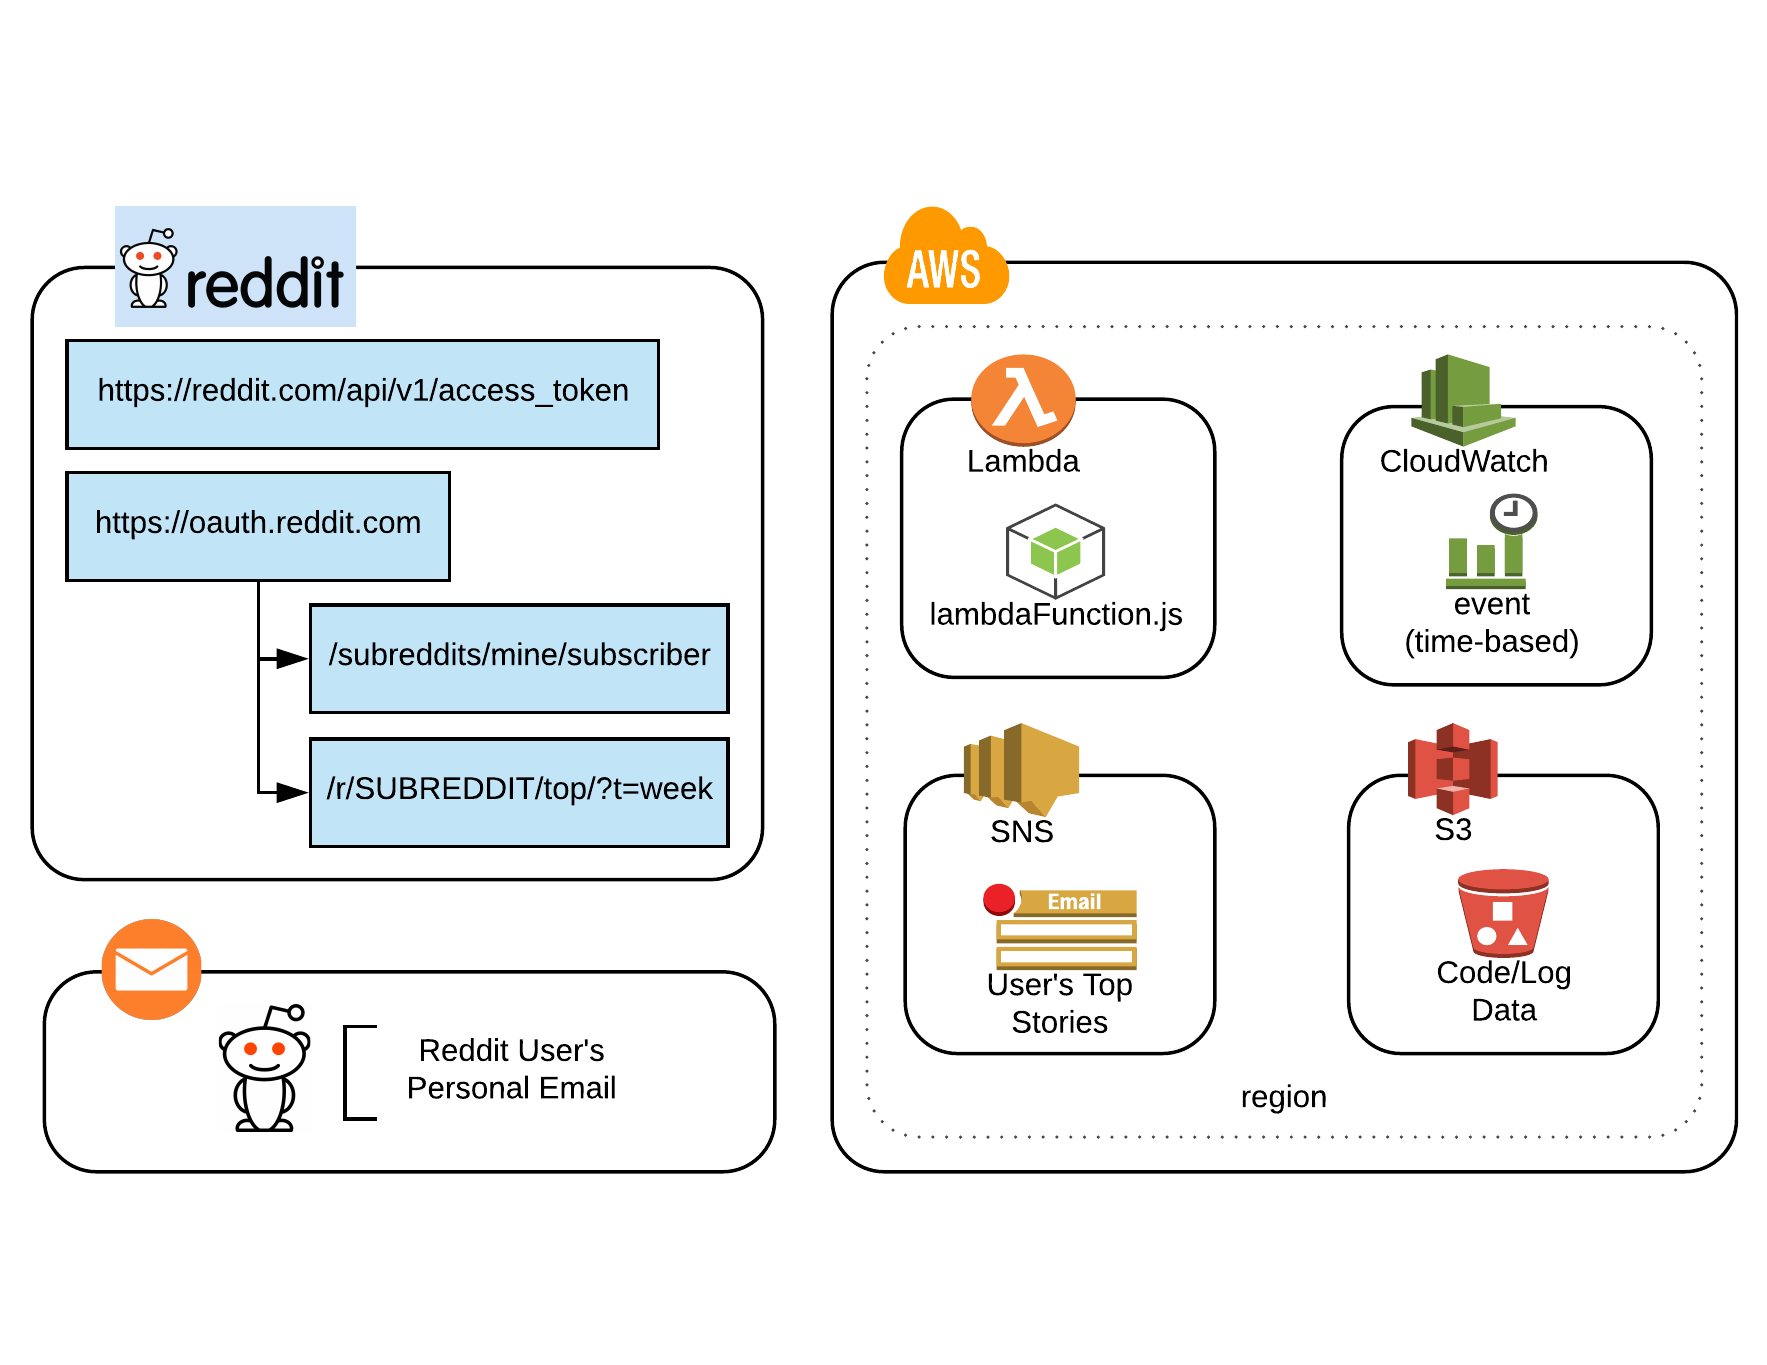
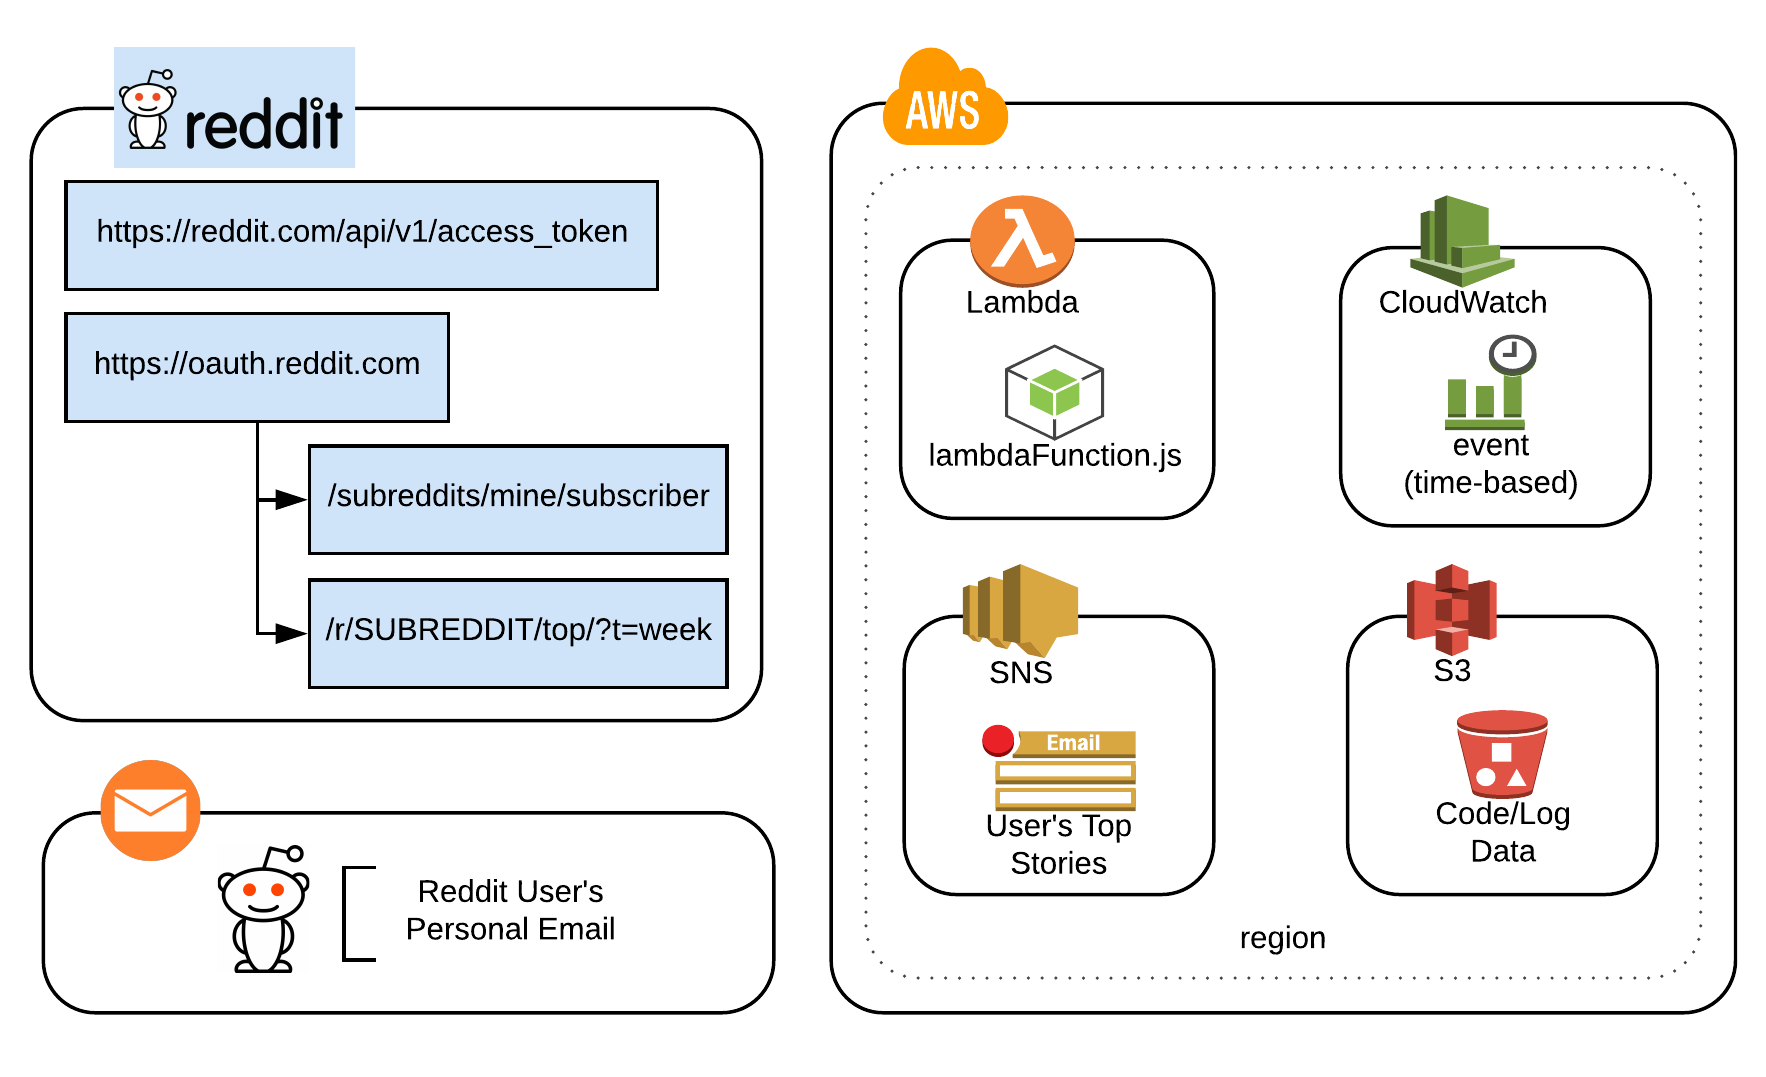
Add sequence flow diagram.  Adjust architecture diagram size and color.

diff --git a/README.md b/README.md
@@ -1,13 +1,24 @@
 ### Architecture
 ![Architecture v01](images/architecture_v01.png?raw=true  "Architecture v01")
 
+### Sequence Flow
+![Sequence Flow v01](images/sequence_flow_v01.png.png?raw=true  "Sequence Flow v01")
+
 ### Deploy
 ```bash
 gulp env
-aws cloudformation create-stack --stack-name aws-lambda-top-stories-LAYER-00 --parameters ParameterKey=UserEmail,ParameterValue=SUBSCRIPTION_EMAIL --template-body file://cloudformation/layer-00.cloudformation.yaml
-aws cloudformation create-stack --stack-name aws-lambda-top-stories-LAYER-01 --template-body file://cloudformation/layer-01.cloudformation.yaml
+aws cloudformation create-stack \
+    --stack-name aws-lambda-top-stories-LAYER-00 \
+    --parameters ParameterKey=UserEmail,ParameterValue=SUBSCRIPTION_EMAIL \
+    --template-body file://cloudformation/layer-00.cloudformation.yaml
+aws cloudformation create-stack \
+    --stack-name aws-lambda-top-stories-LAYER-01 \
+    --template-body file://cloudformation/layer-01.cloudformation.yaml
 S3_BUCKET=aws-lambda-top-stories-bucket gulp deploy
-aws cloudformation create-stack --stack-name aws-lambda-top-stories-LAYER-02 --parameters file://env.json --template-body file://cloudformation/layer-02.cloudformation.yaml
+aws cloudformation create-stack \
+    --stack-name aws-lambda-top-stories-LAYER-02 \
+    --parameters file://env.json \
+    --template-body file://cloudformation/layer-02.cloudformation.yaml
 ```
 
 ### Cleanup
